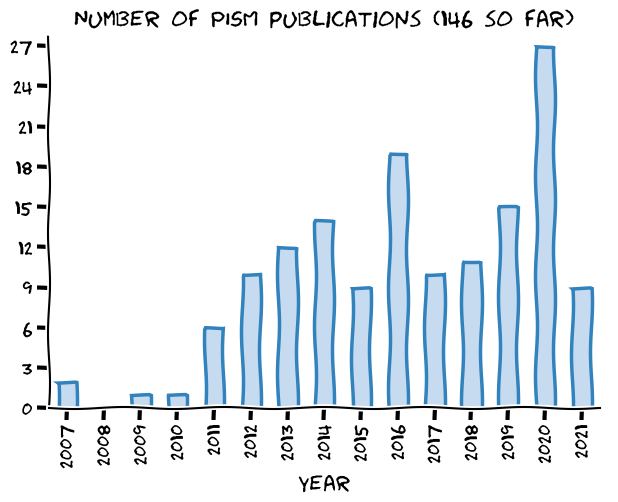
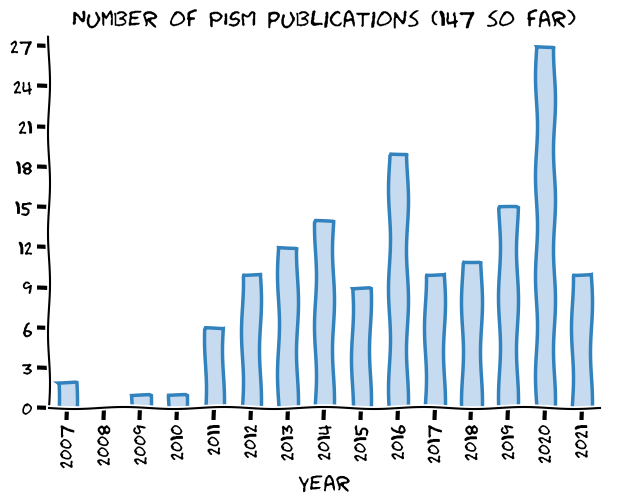
[skip ci] Update the website

Changed region(s): [[0.0922, 0.0, 0.9531, 0.0598], [0.9223, 0.5378, 0.9838, 0.6574], [0.9223, 0.6873, 0.9531, 0.8068]]

diff --git a/publications/index.html b/publications/index.html
@@ -293,6 +293,7 @@ window.onscroll = function() {
   <li>M. Kreuzer, R. Reese, W. N. Huiskamp, S. Petri, T. Albrecht, G. Feulner, and R. Winkelmann. Coupling framework (1.0) for the pism (1.1.4) ice sheet model and the mom5 (5.1.0) ocean model via the pico ice shelf cavity model in an antarctic domain. <em>Geoscientific Model Development</em>, 14(6):3697–3714, 2021. URL: <a href="https://gmd.copernicus.org/articles/14/3697/2021/">https://gmd.copernicus.org/articles/14/3697/2021/</a>, <a href="https://doi.org/10.5194/gmd-14-3697-2021">doi:10.5194/gmd-14-3697-2021</a>.</li>
   <li>J. Lai and A. M. Anders. Climatic controls on mountain glacier basal thermal regimes dictate spatial patterns of glacial erosion. <em>Earth Surface Dynamics</em>, 9(4):845–859, 2021. URL: <a href="https://esurf.copernicus.org/articles/9/845/2021/">https://esurf.copernicus.org/articles/9/845/2021/</a>, <a href="https://doi.org/10.5194/esurf-9-845-2021">doi:10.5194/esurf-9-845-2021</a>.</li>
   <li>L. Niu, G. Lohmann, P. Gierz, E. J. Gowan, and G. Knorr. Coupled climate-ice sheet modelling of MIS-13 reveals a sensitive Cordilleran Ice Sheet. <em>Global and Planetary Change</em>, pages 103474, 2021. URL: <a href="https://www.sciencedirect.com/science/article/pii/S092181812100059X">https://www.sciencedirect.com/science/article/pii/S092181812100059X</a>, <a href="https://doi.org/10.1016/j.gloplacha.2021.103474">doi:10.1016/j.gloplacha.2021.103474</a>.</li>
+  <li>S. J. Phipps, J. L. Roberts, and M. A. King. An iterative process for efficient optimisation of parameters in geoscientific models: a demonstration using the parallel ice sheet model (pism) version 0.7.3. <em>Geoscientific Model Development</em>, 14(8):5107–5124, 2021. URL: <a href="https://gmd.copernicus.org/articles/14/5107/2021/">https://gmd.copernicus.org/articles/14/5107/2021/</a>, <a href="https://doi.org/10.5194/gmd-14-5107-2021">doi:10.5194/gmd-14-5107-2021</a>.</li>
   <li>T. Schlemm and A. Levermann. A simple parametrization of mélange buttressing for calving glaciers. <em>The Cryosphere</em>, 15(2):531–545, 2021. URL: <a href="https://tc.copernicus.org/articles/15/531/2021/">https://tc.copernicus.org/articles/15/531/2021/</a>, <a href="https://doi.org/10.5194/tc-15-531-2021">doi:10.5194/tc-15-531-2021</a>.</li>
   <li>J. Sutter, H. Fischer, and O. Eisen. Simulating the internal structure of the Antarctic Ice Sheet – towards a spatio-temporal calibration for ice-sheet modelling. <em>The Cryosphere</em>, 2021. URL: <a href="https://tc.copernicus.org/preprints/tc-2020-349/">https://tc.copernicus.org/preprints/tc-2020-349/</a>, <a href="https://doi.org/10.5194/tc-2020-349">doi:10.5194/tc-2020-349</a>.</li>
   <li>Q. Yan, L. A. Owen, Z. Zhang, H. Wang, T. Wei, N. Jiang, and R. Zhang. Divergent evolution of glaciation across high-mountain asia during the last four glacial-interglacial cycles. <em>Geophysical Research Letters</em>, n/a(n/a):e2021GL092411, 2021. URL: <a href="https://agupubs.onlinelibrary.wiley.com/doi/abs/10.1029/2021GL092411">https://agupubs.onlinelibrary.wiley.com/doi/abs/10.1029/2021GL092411</a>, <a href="https://doi.org/https://doi.org/10.1029/2021GL092411">doi:https://doi.org/10.1029/2021GL092411</a>.</li>

diff --git a/publications/submitted/index.html b/publications/submitted/index.html
@@ -287,6 +287,7 @@ window.onscroll = function() {
 <ol>
   <li>R. Döscher, M. Acosta, A. Alessandri, P. Anthoni, A. Arneth, T. Arsouze, T. Bergmann, R. Bernadello, S. Bousetta, L.-P. Caron, G. Carver, M. Castrillo, F. Catalano, I. Cvijanovic, P. Davini, E. Dekker, F. J. Doblas-Reyes, D. Docquier, P. Echevarria, U. Fladrich, R. Fuentes-Franco, M. Gröger, J. v. Hardenberg, J. Hieronymus, M. P. Karami, J.-P. Keskinen, T. Koenigk, R. Makkonen, F. Massonnet, M. Ménégoz, P. A. Miller, E. Moreno-Chamarro, L. Nieradzik, T. van Noije, P. Nolan, D. O’Donnell, P. Ollinaho, G. van den Oord, P. Ortega, O. T. Prims, A. Ramos, T. Reerink, C. Rousset, Y. Ruprich-Robert, P. Le Sager, T. Schmith, R. Schrödner, F. Serva, V. Sicardi, M. Sloth Madsen, B. Smith, T. Tian, E. Tourigny, P. Uotila, M. Vancoppenolle, S. Wang, D. Wårlind, U. Willén, K. Wyser, S. Yang, X. Yepes-Arbós, and Q. Zhang. The ec-earth3 earth system model for the climate model intercomparison project 6. <em>Geoscientific Model Development Discussions</em>, 2021:1–90, 2021. URL: <a href="https://gmd.copernicus.org/preprints/gmd-2020-446/">https://gmd.copernicus.org/preprints/gmd-2020-446/</a>, <a href="https://doi.org/10.5194/gmd-2020-446">doi:10.5194/gmd-2020-446</a>.</li>
   <li>D. Lowry, M. Krapp, N. Golledge, and A. Alevropolous-Borrill. Global warming levels control time of emergence of Antarctic ice loss. <em>submitted</em>, 2021. URL: <a href="https://doi.org/10.21203/rs.3.rs-356571/v1">https://doi.org/10.21203/rs.3.rs-356571/v1</a>, <a href="https://doi.org/10.21203/rs.3.rs-356571/v1">doi:10.21203/rs.3.rs-356571/v1</a>.</li>
+  <li>T. Schlemm, J. Feldmann, R. Winkelmann, and A. Levermann. Stabilizing effect of mélange buttressing on the marine ice cliff instability of the west antarctic ice sheet. <em>The Cryosphere Discussions</em>, 2021:1–29, 2021. URL: <a href="https://tc.copernicus.org/preprints/tc-2021-238/">https://tc.copernicus.org/preprints/tc-2021-238/</a>, <a href="https://doi.org/10.5194/tc-2021-238">doi:10.5194/tc-2021-238</a>.</li>
   <li>M. Zeitz, R. Reese, J. Beckmann, U. Krebs-Kanzow, and R. Winkelmann. Impact of the melt-albedo feedback on the future evolution of the Greenland ice sheet with PISM-dEBM-simple. <em>The Cryosphere Discussions</em>, 2021:1–32, 2021. URL: <a href="https://tc.copernicus.org/preprints/tc-2021-91/">https://tc.copernicus.org/preprints/tc-2021-91/</a>, <a href="https://doi.org/10.5194/tc-2021-91">doi:10.5194/tc-2021-91</a>.</li>
   <li>M. Zeitz, R. Winkelmann, and A. Levermann. Implications of flow law uncertainty for flow-driven ice-loss in greenland under idealized warming pathways. <em>The Cryosphere Discussions</em>, 2021. URL: <a href="http://www.pik-potsdam.de/~anders/publications/zeitz_winkelmann21.pdf">http://www.pik-potsdam.de/~anders/publications/zeitz_winkelmann21.pdf</a>.</li>
 </ol>

diff --git a/publications/published.md b/publications/published.md
@@ -6,9 +6,10 @@
 4. M\. Kreuzer, R\. Reese, W\. N\. Huiskamp, S\. Petri, T\. Albrecht, G\. Feulner, and R\. Winkelmann\. Coupling framework \(1\.0\) for the pism \(1\.1\.4\) ice sheet model and the mom5 \(5\.1\.0\) ocean model via the pico ice shelf cavity model in an antarctic domain\. *Geoscientific Model Development*, 14\(6\):3697–3714, 2021\. URL: [https://gmd\.copernicus\.org/articles/14/3697/2021/](https://gmd.copernicus.org/articles/14/3697/2021/), [doi:10\.5194/gmd\-14\-3697\-2021](https://doi.org/10.5194/gmd-14-3697-2021)\.   
 5. J\. Lai and A\. M\. Anders\. Climatic controls on mountain glacier basal thermal regimes dictate spatial patterns of glacial erosion\. *Earth Surface Dynamics*, 9\(4\):845–859, 2021\. URL: [https://esurf\.copernicus\.org/articles/9/845/2021/](https://esurf.copernicus.org/articles/9/845/2021/), [doi:10\.5194/esurf\-9\-845\-2021](https://doi.org/10.5194/esurf-9-845-2021)\.   
 6. L\. Niu, G\. Lohmann, P\. Gierz, E\. J\. Gowan, and G\. Knorr\. Coupled climate\-ice sheet modelling of MIS\-13 reveals a sensitive Cordilleran Ice Sheet\. *Global and Planetary Change*, pages 103474, 2021\. URL: [https://www\.sciencedirect\.com/science/article/pii/S092181812100059X](https://www.sciencedirect.com/science/article/pii/S092181812100059X), [doi:10\.1016/j\.gloplacha\.2021\.103474](https://doi.org/10.1016/j.gloplacha.2021.103474)\.   
-7. T\. Schlemm and A\. Levermann\. A simple parametrization of mélange buttressing for calving glaciers\. *The Cryosphere*, 15\(2\):531–545, 2021\. URL: [https://tc\.copernicus\.org/articles/15/531/2021/](https://tc.copernicus.org/articles/15/531/2021/), [doi:10\.5194/tc\-15\-531\-2021](https://doi.org/10.5194/tc-15-531-2021)\.   
-8. J\. Sutter, H\. Fischer, and O\. Eisen\. Simulating the internal structure of the Antarctic Ice Sheet – towards a spatio\-temporal calibration for ice\-sheet modelling\. *The Cryosphere*, 2021\. URL: [https://tc\.copernicus\.org/preprints/tc\-2020\-349/](https://tc.copernicus.org/preprints/tc-2020-349/), [doi:10\.5194/tc\-2020\-349](https://doi.org/10.5194/tc-2020-349)\.   
-9. Q\. Yan, L\. A\. Owen, Z\. Zhang, H\. Wang, T\. Wei, N\. Jiang, and R\. Zhang\. Divergent evolution of glaciation across high\-mountain asia during the last four glacial\-interglacial cycles\. *Geophysical Research Letters*, n/a\(n/a\):e2021GL092411, 2021\. URL: [https://agupubs\.onlinelibrary\.wiley\.com/doi/abs/10\.1029/2021GL092411](https://agupubs.onlinelibrary.wiley.com/doi/abs/10.1029/2021GL092411), [doi:https://doi\.org/10\.1029/2021GL092411](https://doi.org/https://doi.org/10.1029/2021GL092411)\.   
+7. S\. J\. Phipps, J\. L\. Roberts, and M\. A\. King\. An iterative process for efficient optimisation of parameters in geoscientific models: a demonstration using the parallel ice sheet model \(pism\) version 0\.7\.3\. *Geoscientific Model Development*, 14\(8\):5107–5124, 2021\. URL: [https://gmd\.copernicus\.org/articles/14/5107/2021/](https://gmd.copernicus.org/articles/14/5107/2021/), [doi:10\.5194/gmd\-14\-5107\-2021](https://doi.org/10.5194/gmd-14-5107-2021)\.   
+8. T\. Schlemm and A\. Levermann\. A simple parametrization of mélange buttressing for calving glaciers\. *The Cryosphere*, 15\(2\):531–545, 2021\. URL: [https://tc\.copernicus\.org/articles/15/531/2021/](https://tc.copernicus.org/articles/15/531/2021/), [doi:10\.5194/tc\-15\-531\-2021](https://doi.org/10.5194/tc-15-531-2021)\.   
+9. J\. Sutter, H\. Fischer, and O\. Eisen\. Simulating the internal structure of the Antarctic Ice Sheet – towards a spatio\-temporal calibration for ice\-sheet modelling\. *The Cryosphere*, 2021\. URL: [https://tc\.copernicus\.org/preprints/tc\-2020\-349/](https://tc.copernicus.org/preprints/tc-2020-349/), [doi:10\.5194/tc\-2020\-349](https://doi.org/10.5194/tc-2020-349)\.   
+10. Q\. Yan, L\. A\. Owen, Z\. Zhang, H\. Wang, T\. Wei, N\. Jiang, and R\. Zhang\. Divergent evolution of glaciation across high\-mountain asia during the last four glacial\-interglacial cycles\. *Geophysical Research Letters*, n/a\(n/a\):e2021GL092411, 2021\. URL: [https://agupubs\.onlinelibrary\.wiley\.com/doi/abs/10\.1029/2021GL092411](https://agupubs.onlinelibrary.wiley.com/doi/abs/10.1029/2021GL092411), [doi:https://doi\.org/10\.1029/2021GL092411](https://doi.org/https://doi.org/10.1029/2021GL092411)\.   
 
 ### 2020
 

diff --git a/publications/submitted_papers.md b/publications/submitted_papers.md
@@ -2,8 +2,9 @@
 
 1. R\. Döscher, M\. Acosta, A\. Alessandri, P\. Anthoni, A\. Arneth, T\. Arsouze, T\. Bergmann, R\. Bernadello, S\. Bousetta, L\.\-P\. Caron, G\. Carver, M\. Castrillo, F\. Catalano, I\. Cvijanovic, P\. Davini, E\. Dekker, F\. J\. Doblas\-Reyes, D\. Docquier, P\. Echevarria, U\. Fladrich, R\. Fuentes\-Franco, M\. Gröger, J\. v\. Hardenberg, J\. Hieronymus, M\. P\. Karami, J\.\-P\. Keskinen, T\. Koenigk, R\. Makkonen, F\. Massonnet, M\. Ménégoz, P\. A\. Miller, E\. Moreno\-Chamarro, L\. Nieradzik, T\. van Noije, P\. Nolan, D\. O'Donnell, P\. Ollinaho, G\. van den Oord, P\. Ortega, O\. T\. Prims, A\. Ramos, T\. Reerink, C\. Rousset, Y\. Ruprich\-Robert, P\. Le Sager, T\. Schmith, R\. Schrödner, F\. Serva, V\. Sicardi, M\. Sloth Madsen, B\. Smith, T\. Tian, E\. Tourigny, P\. Uotila, M\. Vancoppenolle, S\. Wang, D\. Wårlind, U\. Willén, K\. Wyser, S\. Yang, X\. Yepes\-Arbós, and Q\. Zhang\. The ec\-earth3 earth system model for the climate model intercomparison project 6\. *Geoscientific Model Development Discussions*, 2021:1–90, 2021\. URL: [https://gmd\.copernicus\.org/preprints/gmd\-2020\-446/](https://gmd.copernicus.org/preprints/gmd-2020-446/), [doi:10\.5194/gmd\-2020\-446](https://doi.org/10.5194/gmd-2020-446)\.   
 2. D\. Lowry, M\. Krapp, N\. Golledge, and A\. Alevropolous\-Borrill\. Global warming levels control time of emergence of Antarctic ice loss\. *submitted*, 2021\. URL: [https://doi\.org/10\.21203/rs\.3\.rs\-356571/v1](https://doi.org/10.21203/rs.3.rs-356571/v1), [doi:10\.21203/rs\.3\.rs\-356571/v1](https://doi.org/10.21203/rs.3.rs-356571/v1)\.   
-3. M\. Zeitz, R\. Reese, J\. Beckmann, U\. Krebs\-Kanzow, and R\. Winkelmann\. Impact of the melt\-albedo feedback on the future evolution of the Greenland ice sheet with PISM\-dEBM\-simple\. *The Cryosphere Discussions*, 2021:1–32, 2021\. URL: [https://tc\.copernicus\.org/preprints/tc\-2021\-91/](https://tc.copernicus.org/preprints/tc-2021-91/), [doi:10\.5194/tc\-2021\-91](https://doi.org/10.5194/tc-2021-91)\.   
-4. M\. Zeitz, R\. Winkelmann, and A\. Levermann\. Implications of flow law uncertainty for flow\-driven ice\-loss in greenland under idealized warming pathways\. *The Cryosphere Discussions*, 2021\. URL: [http://www\.pik\-potsdam\.de/~anders/publications/zeitz\_winkelmann21\.pdf](http://www.pik-potsdam.de/~anders/publications/zeitz_winkelmann21.pdf)\.   
+3. T\. Schlemm, J\. Feldmann, R\. Winkelmann, and A\. Levermann\. Stabilizing effect of mélange buttressing on the marine ice cliff instability of the west antarctic ice sheet\. *The Cryosphere Discussions*, 2021:1–29, 2021\. URL: [https://tc\.copernicus\.org/preprints/tc\-2021\-238/](https://tc.copernicus.org/preprints/tc-2021-238/), [doi:10\.5194/tc\-2021\-238](https://doi.org/10.5194/tc-2021-238)\.   
+4. M\. Zeitz, R\. Reese, J\. Beckmann, U\. Krebs\-Kanzow, and R\. Winkelmann\. Impact of the melt\-albedo feedback on the future evolution of the Greenland ice sheet with PISM\-dEBM\-simple\. *The Cryosphere Discussions*, 2021:1–32, 2021\. URL: [https://tc\.copernicus\.org/preprints/tc\-2021\-91/](https://tc.copernicus.org/preprints/tc-2021-91/), [doi:10\.5194/tc\-2021\-91](https://doi.org/10.5194/tc-2021-91)\.   
+5. M\. Zeitz, R\. Winkelmann, and A\. Levermann\. Implications of flow law uncertainty for flow\-driven ice\-loss in greenland under idealized warming pathways\. *The Cryosphere Discussions*, 2021\. URL: [http://www\.pik\-potsdam\.de/~anders/publications/zeitz\_winkelmann21\.pdf](http://www.pik-potsdam.de/~anders/publications/zeitz_winkelmann21.pdf)\.   
 
 ### 2020
 
